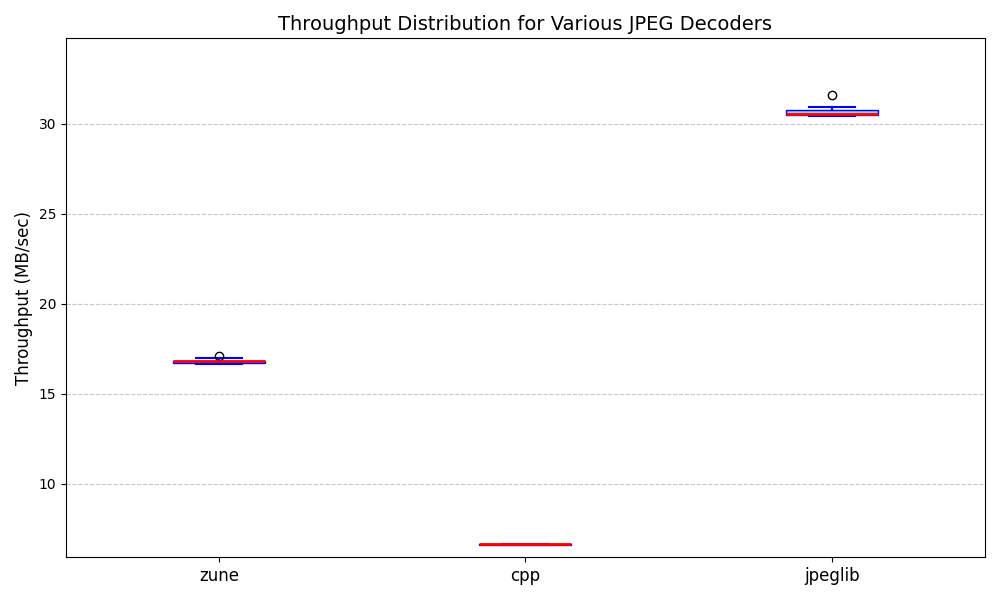
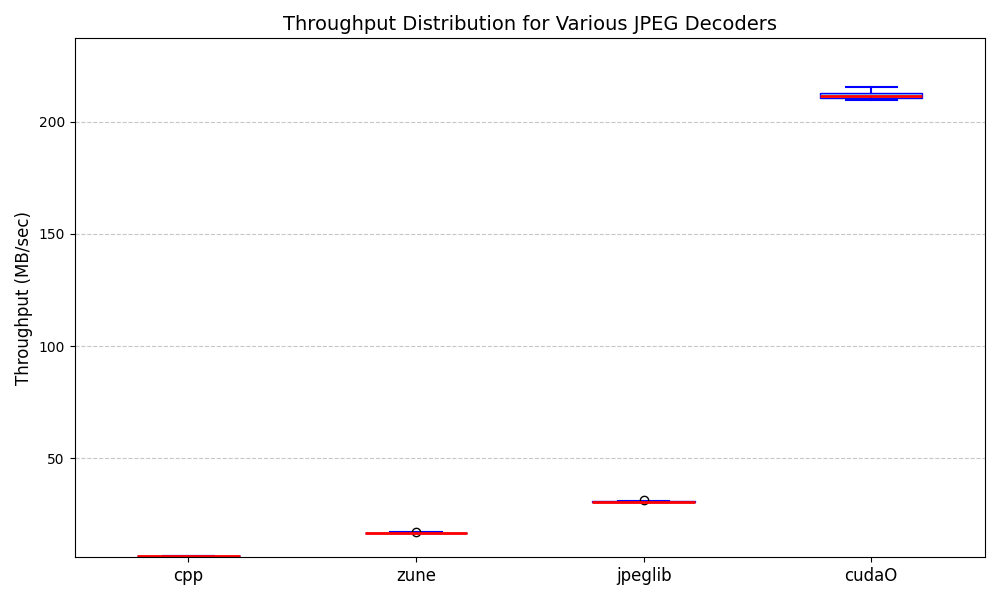
debs: cudaO throughput benchmarking fixed

diff --git a/plots/throughput_boxplot.py b/plots/throughput_boxplot.py
@@ -4,7 +4,7 @@ import numpy as np
 
 # Define benchmark parameters
 #versions = ['zune', 'cudaO', 'cpp', 'jpeglib']
-versions = ['cpp', 'zune', 'jpeglib','cudaU', 'cudaO']
+versions = ['cpp', 'zune', 'jpeglib','cudaO']
 base_path = '/home/dphpc2024_jpeg_1/GPU-JPEG-Decoder/'
 
 # Function to extract throughput data in MB/sec from the benchmark results text file
